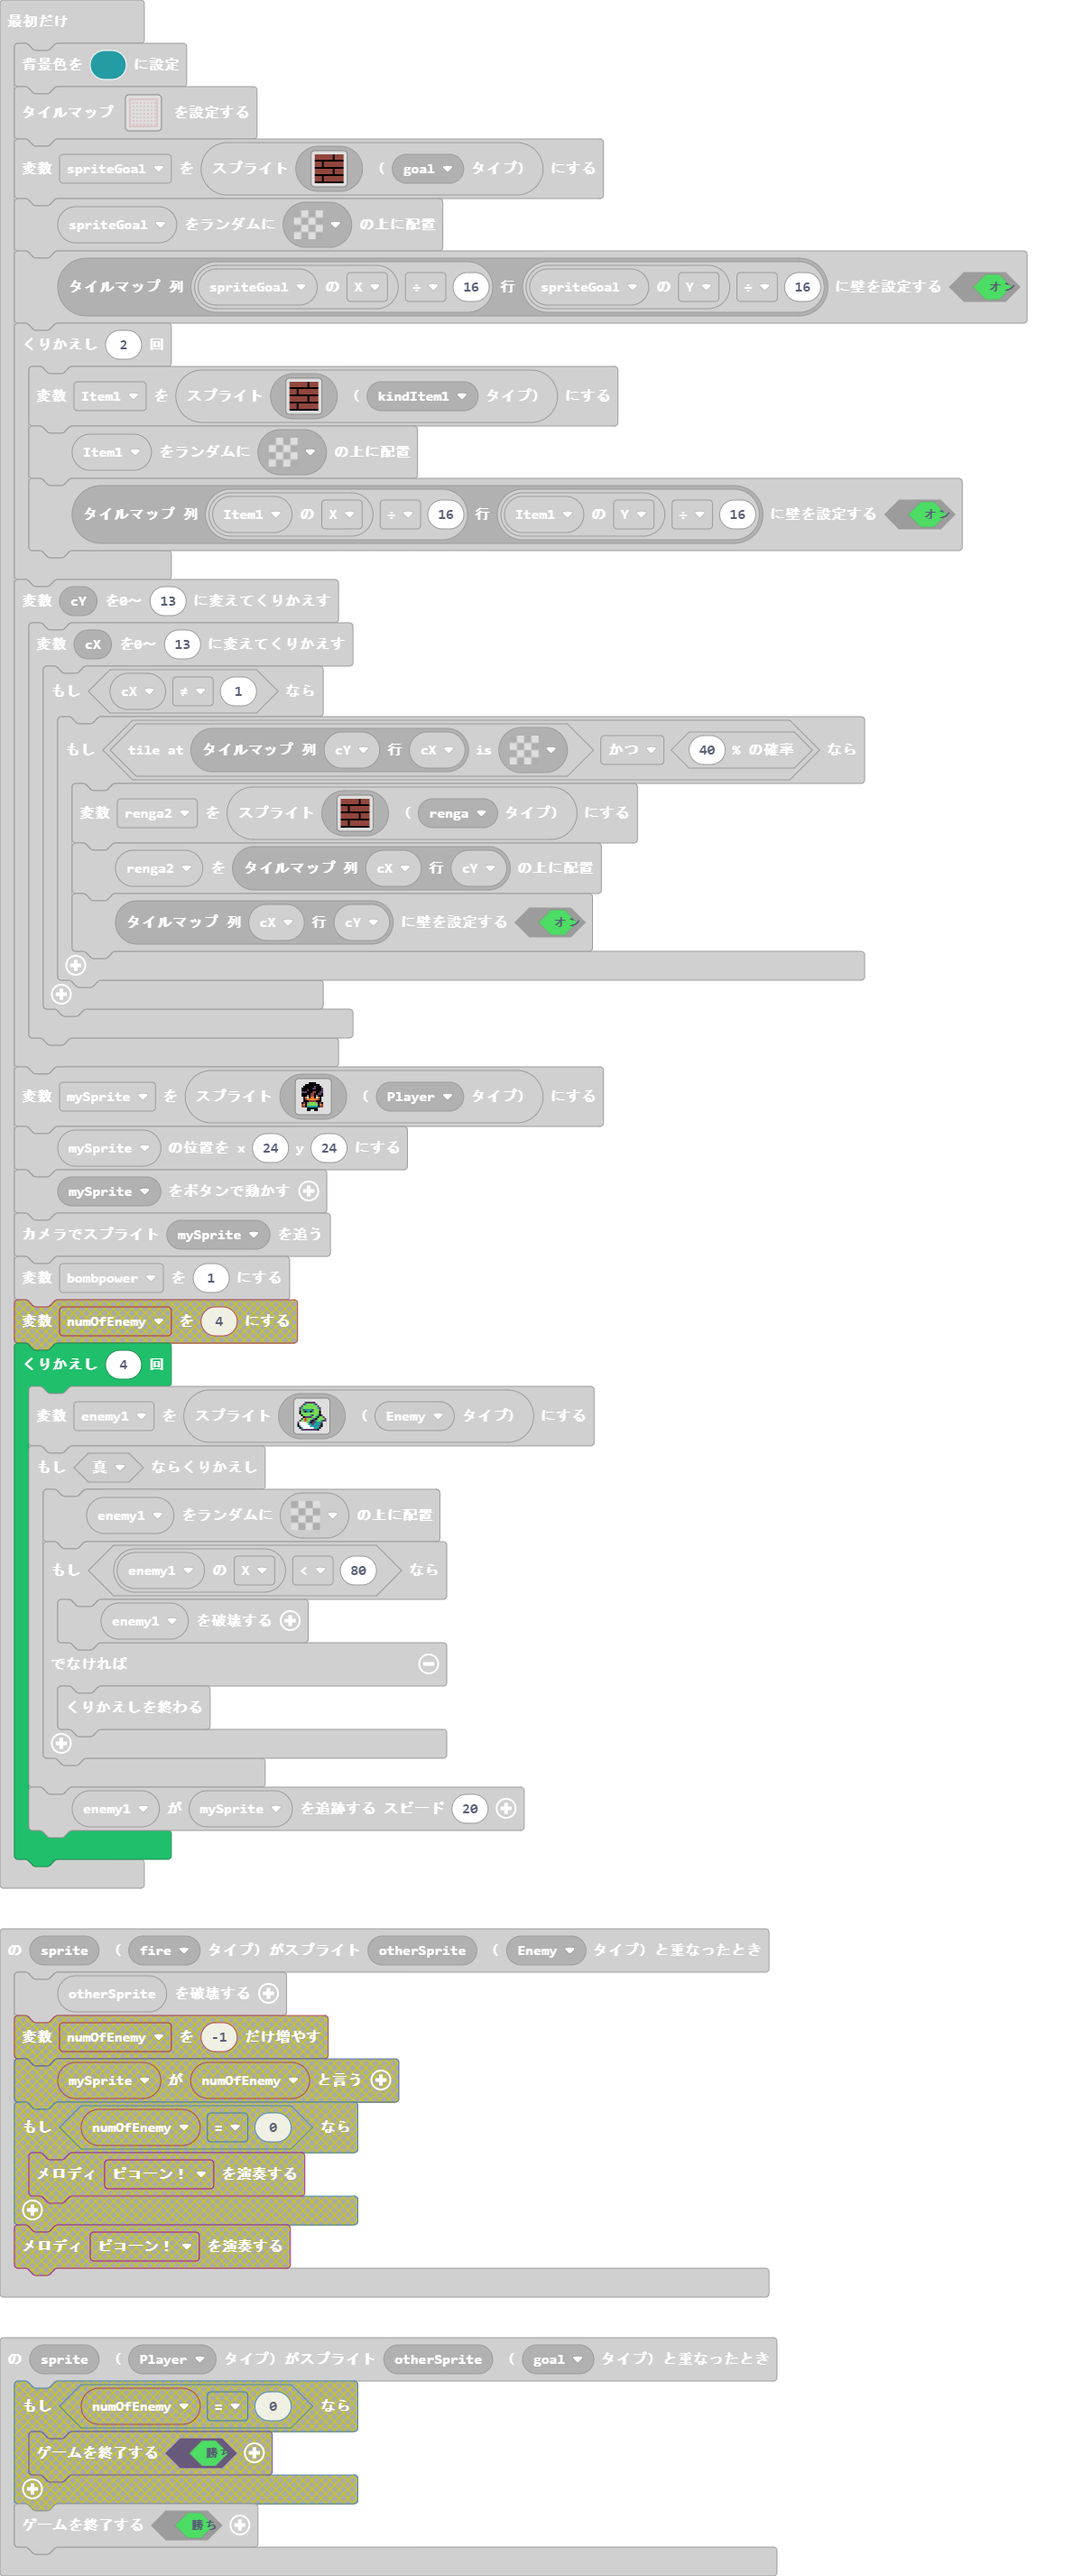
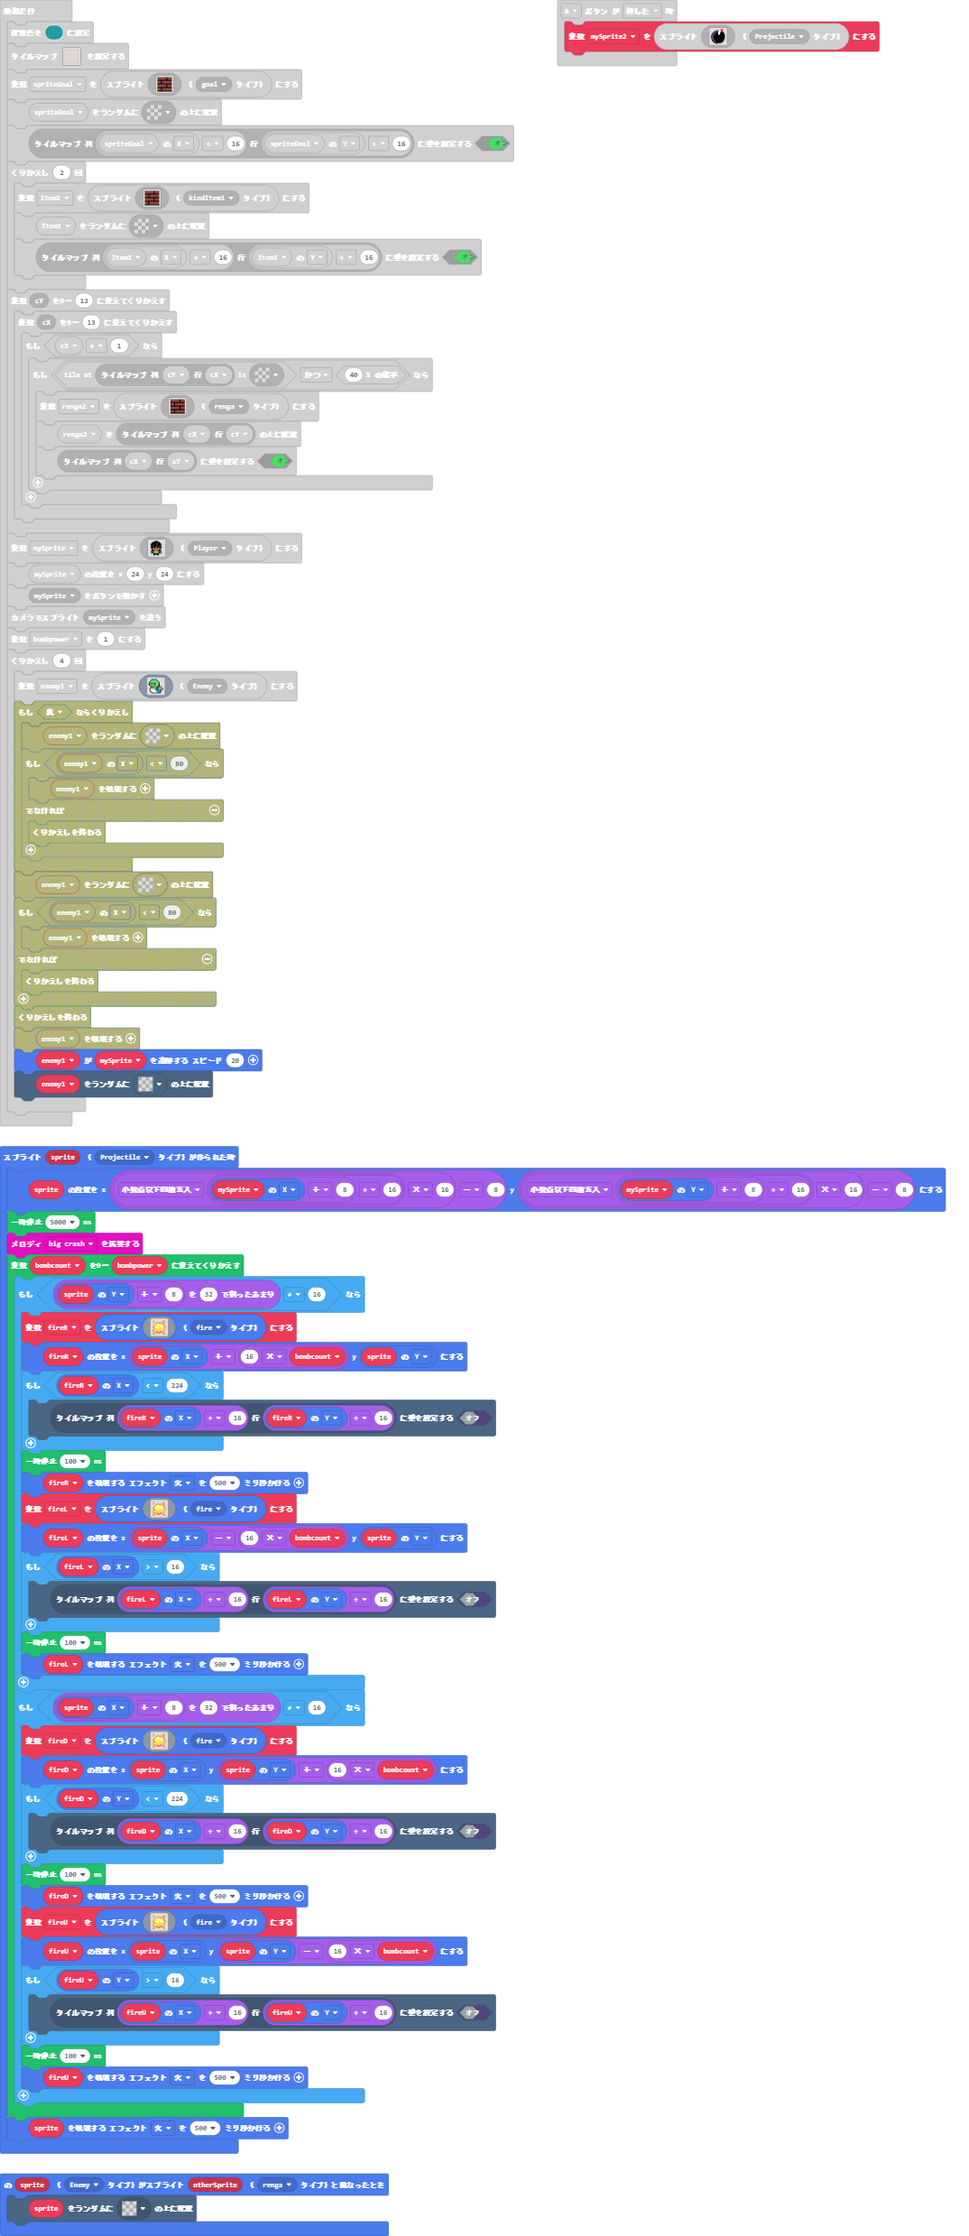
更新 main.blocks, main.ts

diff --git a/main.ts b/main.ts
@@ -121,6 +121,9 @@ controller.left.onEvent(ControllerButtonEvent.Pressed, function () {
         . . . . . . . . . . . . . 
         `)
 })
+sprites.onOverlap(SpriteKind.Enemy, SpriteKind.renga, function (sprite, otherSprite) {
+    tiles.placeOnRandomTile(sprite, assets.tile`transparency16`)
+})
 sprites.onOverlap(SpriteKind.Player, SpriteKind.goal, function (sprite, otherSprite) {
     game.over(true)
 })
@@ -144,33 +147,12 @@ controller.up.onEvent(ControllerButtonEvent.Pressed, function () {
         . . . . . . . . . . . . . 
         `)
 })
-sprites.onOverlap(SpriteKind.Player, SpriteKind.Enemy, function (sprite, otherSprite) {
-    game.over(false)
-})
-controller.A.onEvent(ControllerButtonEvent.Pressed, function () {
-    mySprite2 = sprites.create(img`
-        . . . . . . . . . . 2 2 2 2 . . 
-        . . . . . c c c c 1 1 2 2 . . . 
-        . . . c c c c c 1 1 1 f b b . . 
-        . . c c c c f f 1 1 b f f f b . 
-        . c c c c f f f 1 1 f f f f b . 
-        . c c c f f f f 1 1 f f f f f b 
-        c c c f f f f f f f f f f f f b 
-        c c c f f f f f f f f f f f f b 
-        c c c f f f f f f f f f f f f b 
-        c c c f f f f f f f f f f f f b 
-        c c c f f f f f f f f f f f f b 
-        . c c c f f f f f f f f f f b . 
-        . f c c f f f f f f f f f f b . 
-        . . f c c f f f f f f f f b . . 
-        . . . f f b f f f f f f b . . . 
-        . . . . . f f b b b b . . . . . 
-        `, SpriteKind.Projectile)
-    mySprite2.setPosition(Math.round((mySprite.x + 8) / 16) * 16 - 8, Math.round((mySprite.y + 8) / 16) * 16 - 8)
+sprites.onCreated(SpriteKind.Projectile, function (sprite) {
+    sprite.setPosition(Math.round((mySprite.x + 8) / 16) * 16 - 8, Math.round((mySprite.y + 8) / 16) * 16 - 8)
     pause(5000)
     music.bigCrash.play()
     for (let bombcount = 0; bombcount <= bombpower; bombcount++) {
-        if ((mySprite2.y + 8) % 32 != 16) {
+        if ((sprite.y + 8) % 32 != 16) {
             fireR = sprites.create(img`
                 . 3 . . . . . . . . . . . 4 . . 
                 . 3 3 . . . . . . . . . 4 4 . . 
@@ -189,7 +171,7 @@ controller.A.onEvent(ControllerButtonEvent.Pressed, function () {
                 . 4 5 4 . . 4 4 4 . . . 4 4 . . 
                 . 4 4 . . . . . . . . . . 4 4 . 
                 `, SpriteKind.fire)
-            fireR.setPosition(mySprite2.x + 16 * bombcount, mySprite2.y)
+            fireR.setPosition(sprite.x + 16 * bombcount, sprite.y)
             if (fireR.x < 224) {
                 tiles.setWallAt(tiles.getTileLocation(fireR.x / 16, fireR.y / 16), false)
             }
@@ -213,14 +195,14 @@ controller.A.onEvent(ControllerButtonEvent.Pressed, function () {
                 . 4 5 4 . . 4 4 4 . . . 4 4 . . 
                 . 4 4 . . . . . . . . . . 4 4 . 
                 `, SpriteKind.fire)
-            fireL.setPosition(mySprite2.x - 16 * bombcount, mySprite2.y)
+            fireL.setPosition(sprite.x - 16 * bombcount, sprite.y)
             if (fireL.x > 16) {
                 tiles.setWallAt(tiles.getTileLocation(fireL.x / 16, fireL.y / 16), false)
             }
             pause(100)
             fireL.destroy(effects.fire, 500)
         }
-        if ((mySprite2.x + 8) % 32 != 16) {
+        if ((sprite.x + 8) % 32 != 16) {
             fireD = sprites.create(img`
                 . 3 . . . . . . . . . . . 4 . . 
                 . 3 3 . . . . . . . . . 4 4 . . 
@@ -239,7 +221,7 @@ controller.A.onEvent(ControllerButtonEvent.Pressed, function () {
                 . 4 5 4 . . 4 4 4 . . . 4 4 . . 
                 . 4 4 . . . . . . . . . . 4 4 . 
                 `, SpriteKind.fire)
-            fireD.setPosition(mySprite2.x, mySprite2.y + 16 * bombcount)
+            fireD.setPosition(sprite.x, sprite.y + 16 * bombcount)
             if (fireD.y < 224) {
                 tiles.setWallAt(tiles.getTileLocation(fireD.x / 16, fireD.y / 16), false)
             }
@@ -263,7 +245,7 @@ controller.A.onEvent(ControllerButtonEvent.Pressed, function () {
                 . 4 5 4 . . 4 4 4 . . . 4 4 . . 
                 . 4 4 . . . . . . . . . . 4 4 . 
                 `, SpriteKind.fire)
-            fireU.setPosition(mySprite2.x, mySprite2.y - 16 * bombcount)
+            fireU.setPosition(sprite.x, sprite.y - 16 * bombcount)
             if (fireU.y > 16) {
                 tiles.setWallAt(tiles.getTileLocation(fireU.x / 16, fireU.y / 16), false)
             }
@@ -271,13 +253,36 @@ controller.A.onEvent(ControllerButtonEvent.Pressed, function () {
             fireU.destroy(effects.fire, 500)
         }
     }
-    mySprite2.destroy()
+    sprite.destroy()
 })
+sprites.onOverlap(SpriteKind.Player, SpriteKind.Enemy, function (sprite, otherSprite) {
+    game.over(false)
+})
+controller.A.onEvent(ControllerButtonEvent.Pressed, function () {
+    mySprite2 = sprites.create(img`
+        . . . . . . . . . . 2 2 2 2 . . 
+        . . . . . c c c c 1 1 2 2 . . . 
+        . . . c c c c c 1 1 1 f b b . . 
+        . . c c c c f f 1 1 b f f f b . 
+        . c c c c f f f 1 1 f f f f b . 
+        . c c c f f f f 1 1 f f f f f b 
+        c c c f f f f f f f f f f f f b 
+        c c c f f f f f f f f f f f f b 
+        c c c f f f f f f f f f f f f b 
+        c c c f f f f f f f f f f f f b 
+        c c c f f f f f f f f f f f f b 
+        . c c c f f f f f f f f f f b . 
+        . f c c f f f f f f f f f f b . 
+        . . f c c f f f f f f f f b . . 
+        . . . f f b f f f f f f b . . . 
+        . . . . . f f b b b b . . . . . 
+        `, SpriteKind.Projectile)
+})
+let mySprite2: Sprite = null
 let fireU: Sprite = null
 let fireD: Sprite = null
 let fireL: Sprite = null
 let fireR: Sprite = null
-let mySprite2: Sprite = null
 let enemy1: Sprite = null
 let bombpower = 0
 let mySprite: Sprite = null
@@ -379,30 +384,23 @@ scene.cameraFollowSprite(mySprite)
 bombpower = 1
 for (let index = 0; index < 4; index++) {
     enemy1 = sprites.create(img`
-        . . . . c c c c c c . . . . . . 
-        . . . c 6 7 7 7 7 6 c . . . . . 
-        . . c 7 7 7 7 7 7 7 7 c . . . . 
-        . c 6 7 7 7 7 7 7 7 7 6 c . . . 
-        . c 7 c 6 6 6 6 c 7 7 7 c . . . 
-        . f 7 6 f 6 6 f 6 7 7 7 f . . . 
-        . f 7 7 7 7 7 7 7 7 7 7 f . . . 
-        . . f 7 7 7 7 6 c 7 7 6 f c . . 
-        . . . f c c c c 7 7 6 f 7 7 c . 
-        . . c 7 2 7 7 7 6 c f 7 7 7 7 c 
-        . c 7 7 2 7 7 c f c 6 7 7 6 c c 
-        c 1 1 1 1 7 6 f c c 6 6 6 c . . 
-        f 1 1 1 1 1 6 6 c 6 6 6 6 f . . 
-        f 6 1 1 1 1 1 6 6 6 6 6 c f . . 
-        . f 6 1 1 1 1 1 1 6 6 6 f . . . 
-        . . c c c c c c c c c f . . . . 
+        . . . c c c c c c . . . . . . . 
+        . . c 6 7 7 7 7 6 c . . . . . . 
+        . c 7 7 7 7 7 7 7 7 c . . . . . 
+        c 6 7 7 7 7 7 7 7 7 6 c . . . . 
+        c 7 c 6 6 6 6 c 7 7 7 c . . . . 
+        f 7 6 f 6 6 f 6 7 7 7 f . . . . 
+        f 7 7 7 7 7 7 7 7 7 7 f . . . . 
+        . f 7 7 7 7 6 c 7 7 6 f . . . . 
+        . . f c c c c 7 7 6 f c c c . . 
+        . . c 6 2 7 7 7 f c c 7 7 7 c . 
+        . c 6 7 7 2 7 7 c f 6 7 7 7 7 c 
+        . c 1 1 1 1 7 6 6 c 6 6 6 c c c 
+        . c 1 1 1 1 1 6 6 6 6 6 6 c . . 
+        . c 6 1 1 1 1 1 6 6 6 6 6 c . . 
+        . . c 6 1 1 1 1 1 7 6 6 c c . . 
+        . . . c c c c c c c c c c . . . 
         `, SpriteKind.Enemy)
-    while (true) {
-        tiles.placeOnRandomTile(enemy1, assets.tile`transparency16`)
-        if (enemy1.x < 80) {
-            enemy1.destroy()
-        } else {
-            break;
-        }
-    }
+    tiles.placeOnRandomTile(enemy1, assets.tile`transparency16`)
     enemy1.follow(mySprite, 20)
 }
